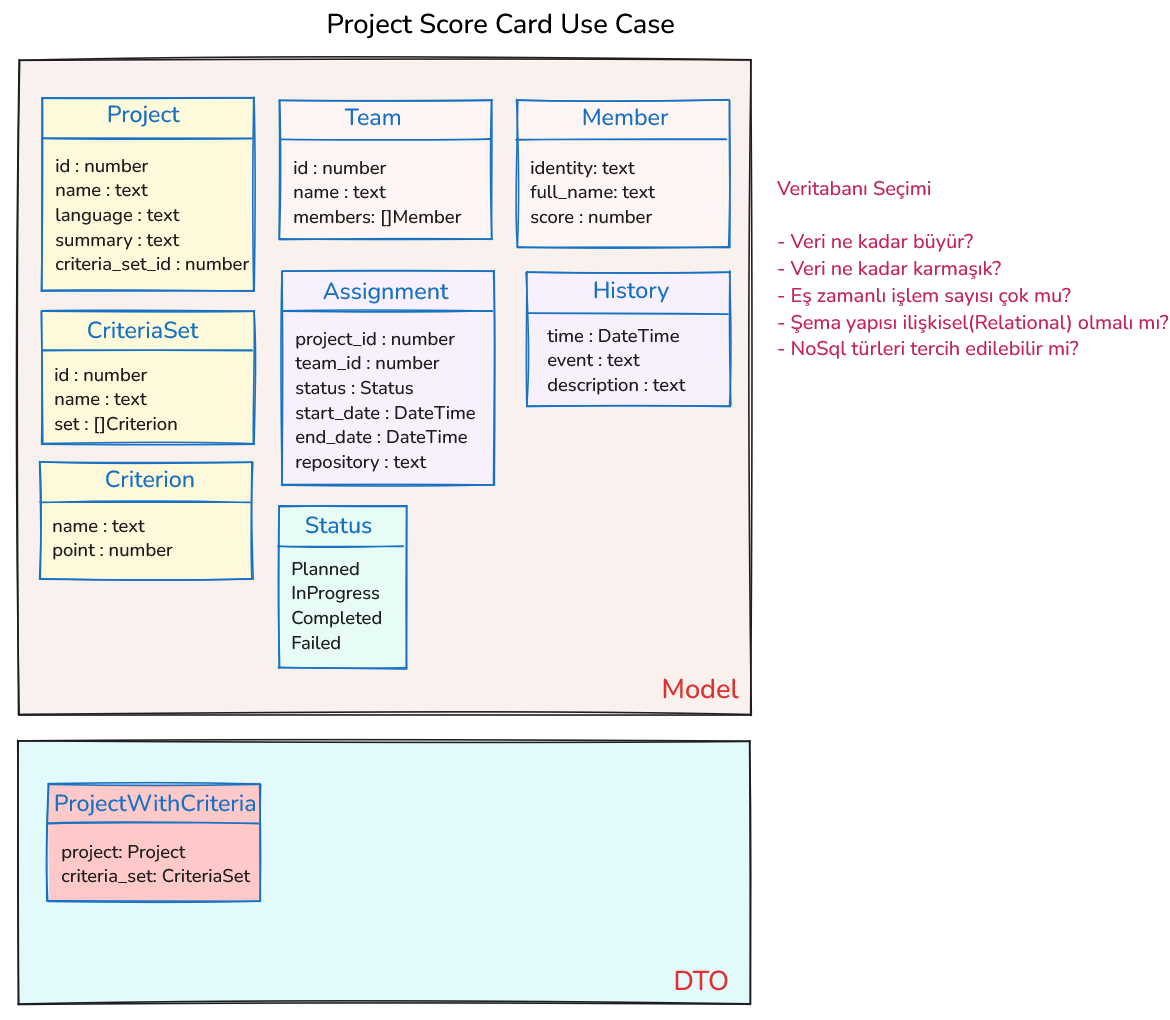
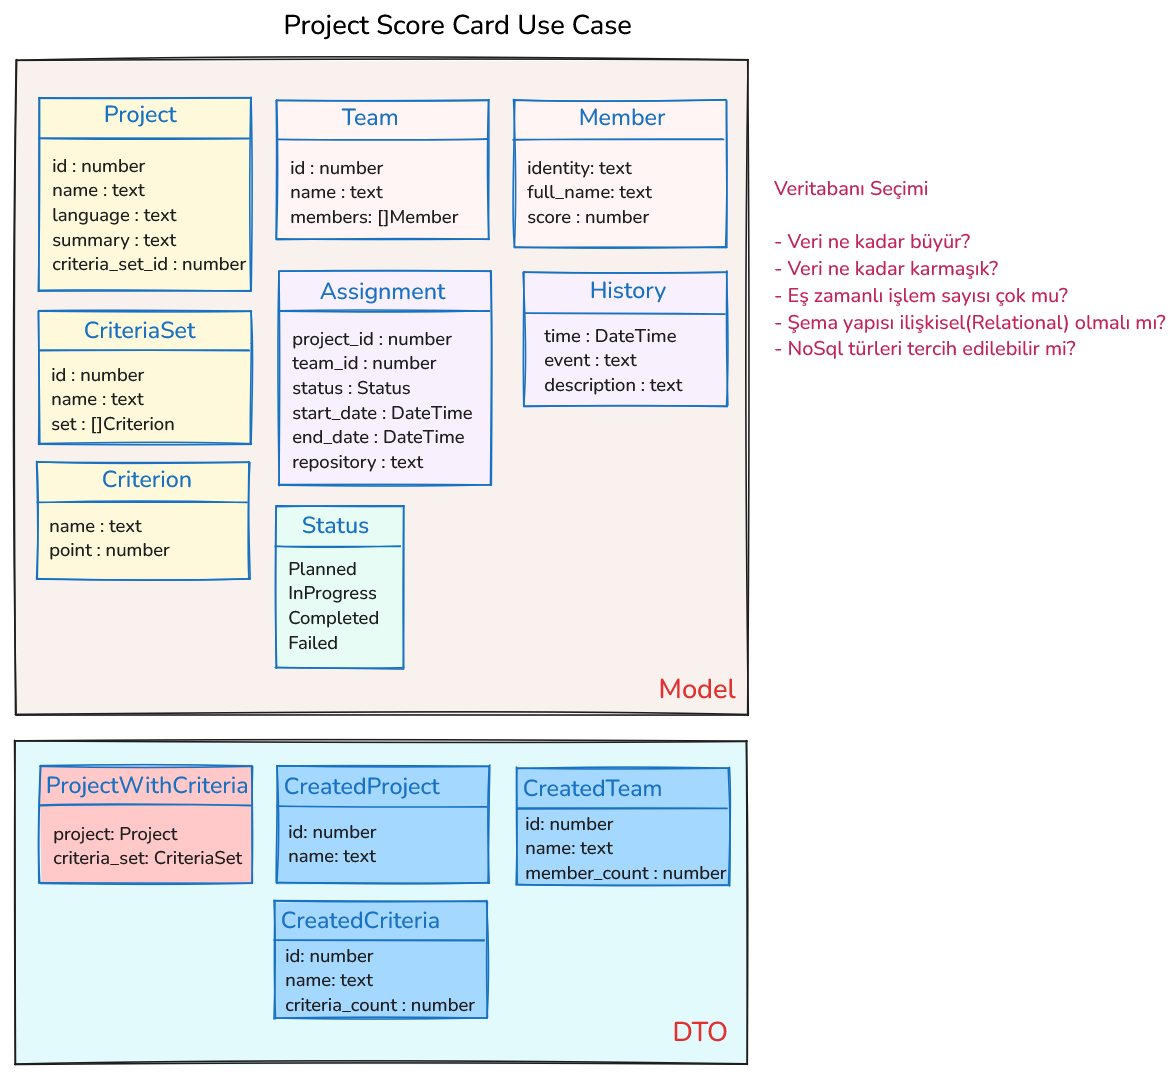
Refactored content

Changed region(s): [[0.0, 0.0, 1.0, 1.0], [0.2769, 0.9725, 0.3692, 1.0]]

diff --git a/src/projects_api/src/repository/team_repository.rs b/src/projects_api/src/repository/team_repository.rs
@@ -1,3 +1,4 @@
+use crate::dto::prelude::CreatedTeam;
 use crate::model::prelude::*;
 use sqlx::{sqlite::SqlitePool, Result, Row};
 
@@ -10,23 +11,29 @@ impl TeamRepository {
         TeamRepository { pool }
     }
 
-    pub async fn create_team(&self, team: &Team) -> Result<()> {
-        sqlx::query(
+    pub async fn create_team(&self, team: &Team) -> Result<CreatedTeam> {
+        let inserted: (i64,) = sqlx::query_as(
             r#"
-            INSERT INTO teams (id, name)
-            VALUES (?, ?)
+            INSERT INTO teams (name)
+            VALUES (?)
+            RETURNING id
             "#,
         )
-        .bind(team.id)
         .bind(&team.name)
-        .execute(&self.pool)
+        .fetch_one(&self.pool)
         .await?;
 
+        log::info!("Auto created row id {}", inserted.0);
+
         for member in &team.members {
-            self.add_member_to_team(team.id, member).await?;
+            self.add_member_to_team(inserted.0 as u32, member).await?;
         }
 
-        Ok(())
+        Ok(CreatedTeam {
+            id: inserted.0 as u32,
+            name: team.name.clone(),
+            member_count: team.members.len(),
+        })
     }
 
     pub async fn add_member_to_team(&self, team_id: u32, member: &Member) -> Result<()> {
@@ -66,7 +73,7 @@ impl TeamRepository {
 
         let members_rows = sqlx::query(
             r#"
-            SELECT identity, full_name, score
+            SELECT id, identity, full_name, score
             FROM members
             WHERE team_id = ?
             "#,
@@ -78,9 +85,10 @@ impl TeamRepository {
         let members = members_rows
             .iter()
             .map(|row| Member {
-                identity: row.get::<String, _>(0),
-                full_name: row.get::<String, _>(1),
-                score: row.get::<i32, _>(2),
+                id: row.get::<u32, _>(0),
+                identity: row.get::<String, _>(1),
+                full_name: row.get::<String, _>(2),
+                score: row.get::<i32, _>(3),
             })
             .collect();
 

diff --git a/src/projects_api/src/repository/criteria_repository.rs b/src/projects_api/src/repository/criteria_repository.rs
@@ -1,3 +1,4 @@
+use crate::dto::prelude::CreatedCriteria;
 use crate::model::prelude::*;
 use sqlx::{sqlite::SqlitePool, Result, Row};
 
@@ -10,24 +11,28 @@ impl CriteriaRepository {
         CriteriaRepository { pool }
     }
 
-    pub async fn create_criteria_set(&self, criteria_set: &CriteriaSet) -> Result<()> {
-        sqlx::query(
+    pub async fn create_criteria_set(&self, criteria_set: &CriteriaSet) -> Result<CreatedCriteria> {
+        let inserted: (i64,) = sqlx::query_as(
             r#"
-            INSERT INTO criteria_sets (id, name)
-            VALUES (?, ?)
-            "#,
+        INSERT INTO criteria_sets (name)
+        VALUES (?)
+        RETURNING id
+        "#,
         )
-        .bind(criteria_set.id)
         .bind(&criteria_set.name)
-        .execute(&self.pool)
+        .fetch_one(&self.pool)
         .await?;
 
         for criterion in &criteria_set.set {
-            self.add_criterion_to_criteria_set(criteria_set.id, criterion)
+            self.add_criterion_to_criteria_set(inserted.0 as u32, criterion)
                 .await?;
         }
 
-        Ok(())
+        Ok(CreatedCriteria {
+            id: inserted.0 as u32,
+            name: criteria_set.name.clone(),
+            criteria_count: criteria_set.set.len(),
+        })
     }
 
     pub async fn add_criterion_to_criteria_set(

diff --git a/src/projects_api/src/repository/project_repository.rs b/src/projects_api/src/repository/project_repository.rs
@@ -11,22 +11,25 @@ impl ProjectRepository {
         ProjectRepository { pool }
     }
 
-    pub async fn create_project(&self, project: &Project) -> Result<()> {
-        sqlx::query(
+    pub async fn create_project(&self, project: &Project) -> Result<CreatedProject> {
+        let inserted: (i64,) = sqlx::query_as(
             r#"
-            INSERT INTO projects (id, name, language, summary, criteria_set_id)
-            VALUES (?, ?, ?, ?, ?)
+            INSERT INTO projects (name, language, summary, criteria_set_id)
+            VALUES (?, ?, ?, ?)
+            RETURNING id
             "#,
         )
-        .bind(project.id)
         .bind(&project.name)
         .bind(&project.language)
         .bind(&project.summary)
         .bind(&project.criteria_set_id)
-        .execute(&self.pool)
+        .fetch_one(&self.pool)
         .await?;
 
-        Ok(())
+        Ok(CreatedProject {
+            id: inserted.0 as u32,
+            name: project.name.clone(),
+        })
     }
 
     pub async fn get_project(&self, project_id: u32) -> Result<ProjectWithCriteria> {

diff --git a/src/projects_api/src/controller/team_controller.rs b/src/projects_api/src/controller/team_controller.rs
@@ -7,7 +7,7 @@ use sqlx::SqlitePool;
 async fn create_team(team: web::Json<Team>, pool: web::Data<SqlitePool>) -> impl Responder {
     let repository = TeamRepository::new(pool.get_ref().clone());
     match repository.create_team(&team).await {
-        Ok(_) => HttpResponse::Ok().json("Team created successfully"),
+        Ok(created) => HttpResponse::Ok().json(created),
         Err(err) => HttpResponse::InternalServerError().body(err.to_string()),
     }
 }

diff --git a/src/projects_api/src/controller/criteria_controller.rs b/src/projects_api/src/controller/criteria_controller.rs
@@ -10,7 +10,7 @@ async fn create_criteria_set(
 ) -> impl Responder {
     let repository = CriteriaRepository::new(pool.get_ref().clone());
     match repository.create_criteria_set(&criteria_set).await {
-        Ok(_) => HttpResponse::Ok().json("Criteria set created successfully"),
+        Ok(created) => HttpResponse::Ok().json(created),
         Err(err) => HttpResponse::InternalServerError().body(err.to_string()),
     }
 }

diff --git a/src/projects_api/src/controller/project_controller.rs b/src/projects_api/src/controller/project_controller.rs
@@ -10,7 +10,7 @@ async fn create_project(
 ) -> impl Responder {
     let repository = ProjectRepository::new(pool.get_ref().clone());
     match repository.create_project(&project).await {
-        Ok(_) => HttpResponse::Ok().json("Project created successfully"),
+        Ok(created) => HttpResponse::Ok().json(created),
         Err(err) => HttpResponse::InternalServerError().body(err.to_string()),
     }
 }

diff --git a/src/projects_api/src/dto/prelude.rs b/src/projects_api/src/dto/prelude.rs
@@ -1,1 +1,4 @@
+pub use crate::dto::created_criteria::CreatedCriteria;
+pub use crate::dto::created_project::CreatedProject;
+pub use crate::dto::created_team::CreatedTeam;
 pub use crate::dto::project_with_criteria::ProjectWithCriteria;

diff --git a/src/projects_api/src/model/member.rs b/src/projects_api/src/model/member.rs
@@ -2,6 +2,8 @@ use serde::{Deserialize, Serialize};
 
 #[derive(Serialize, Deserialize)]
 pub struct Member {
+    #[serde(skip_deserializing)]
+    pub id: u32,
     pub identity: String,
     pub full_name: String,
     pub score: i32,

diff --git a/src/projects_api/src/model/criteria_set.rs b/src/projects_api/src/model/criteria_set.rs
@@ -3,6 +3,7 @@ use serde::{Deserialize, Serialize};
 
 #[derive(Serialize, Deserialize)]
 pub struct CriteriaSet {
+    #[serde(skip_deserializing)]
     pub id: u32,
     pub name: String,
     pub set: Vec<Criterion>,

diff --git a/src/projects_api/src/model/team.rs b/src/projects_api/src/model/team.rs
@@ -4,6 +4,7 @@ use serde::{Deserialize, Serialize};
 
 #[derive(Serialize, Deserialize)]
 pub struct Team {
+    #[serde(skip_deserializing)]
     pub id: u32,
     pub name: String,
     pub members: Vec<Member>,

diff --git a/src/projects_api/src/model/project.rs b/src/projects_api/src/model/project.rs
@@ -2,6 +2,7 @@ use serde::{Deserialize, Serialize};
 
 #[derive(Serialize, Deserialize)]
 pub struct Project {
+    #[serde(skip_deserializing)]
     pub id: u32,
     pub name: String,
     pub language: String,

diff --git a/src/projects_api/src/dto/created_criteria.rs b/src/projects_api/src/dto/created_criteria.rs
@@ -1,0 +1,8 @@
+use serde::Serialize;
+
+#[derive(Serialize)]
+pub struct CreatedCriteria {
+    pub id: u32,
+    pub name: String,
+    pub criteria_count: usize,
+}
